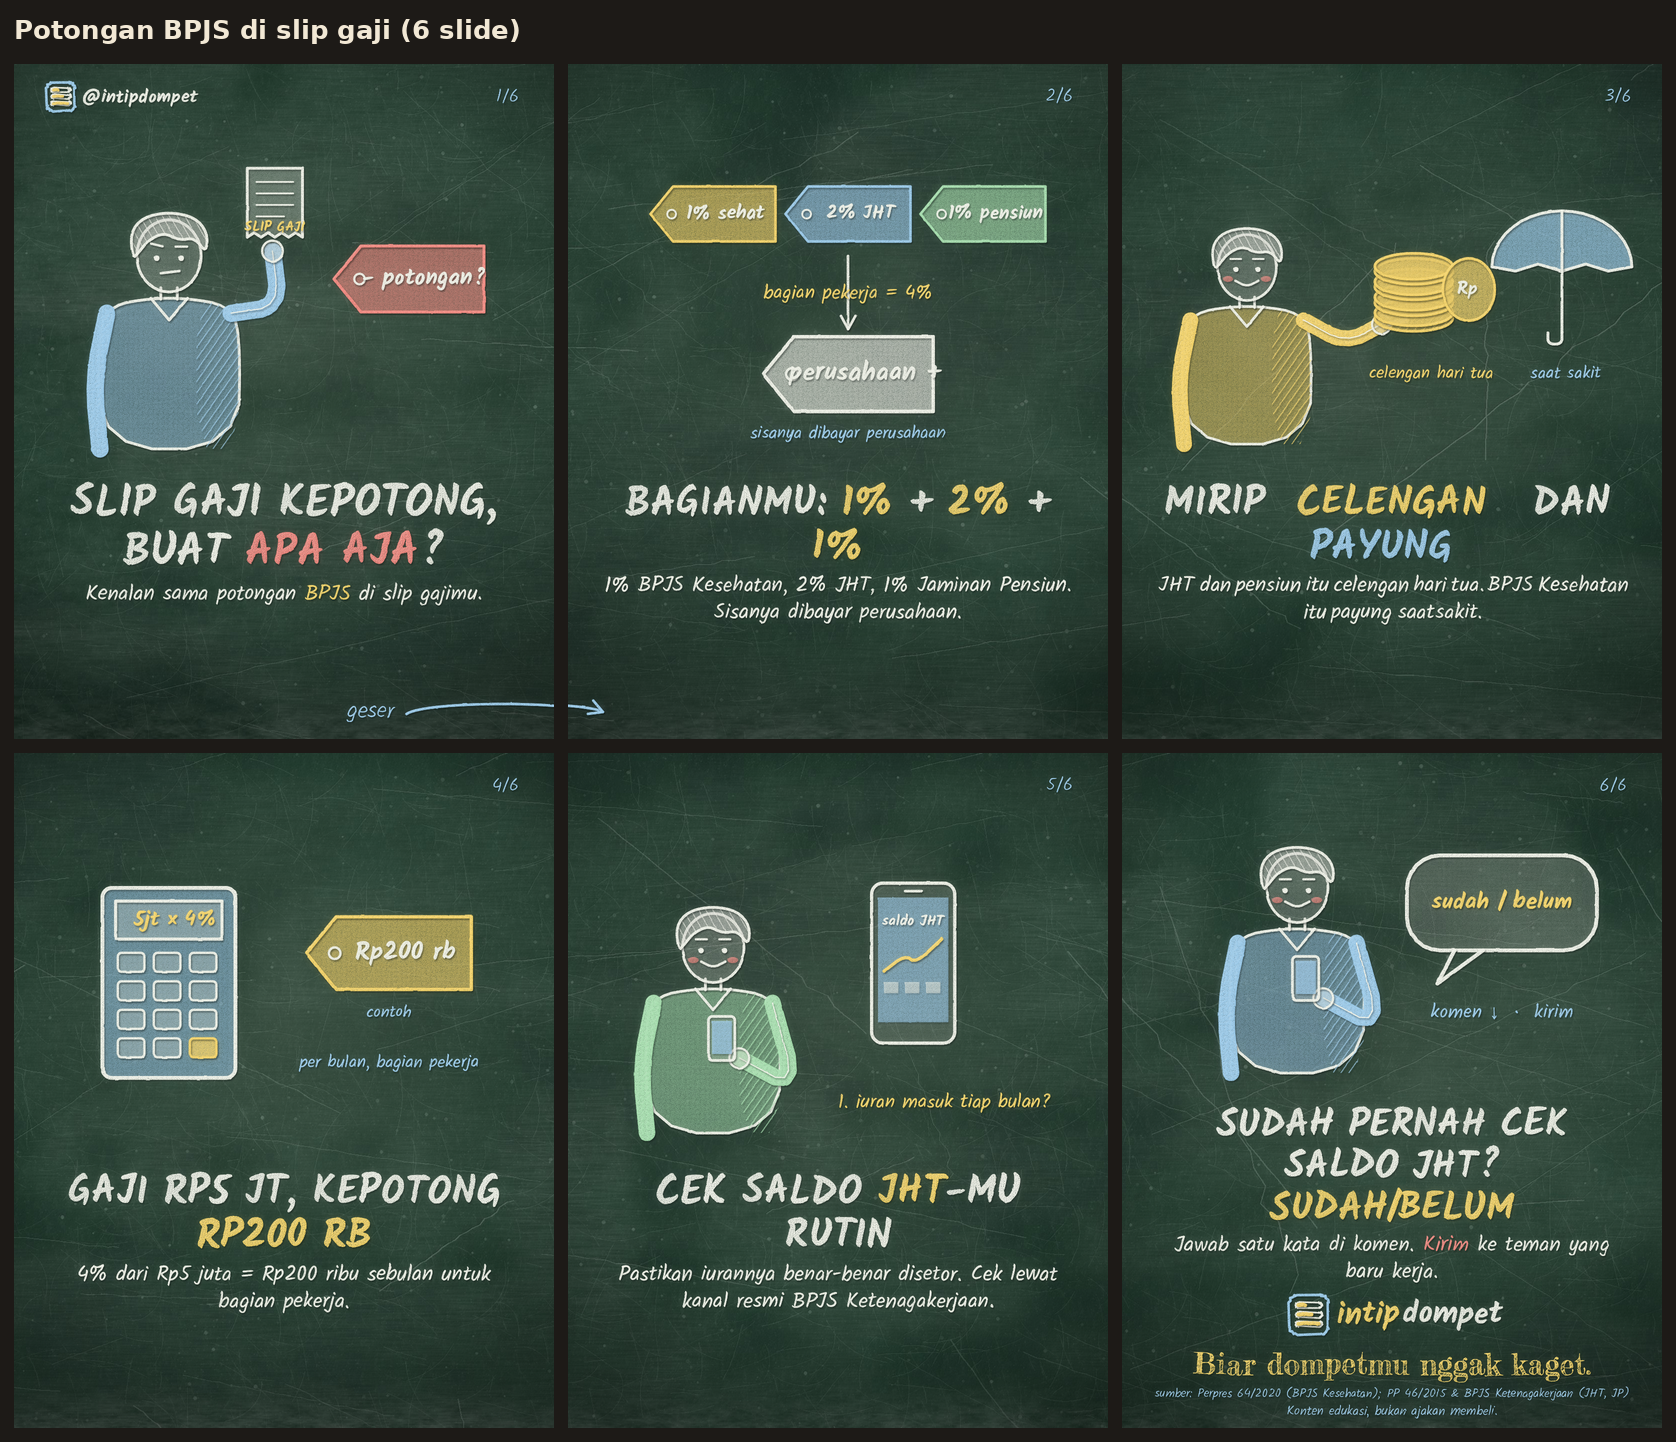
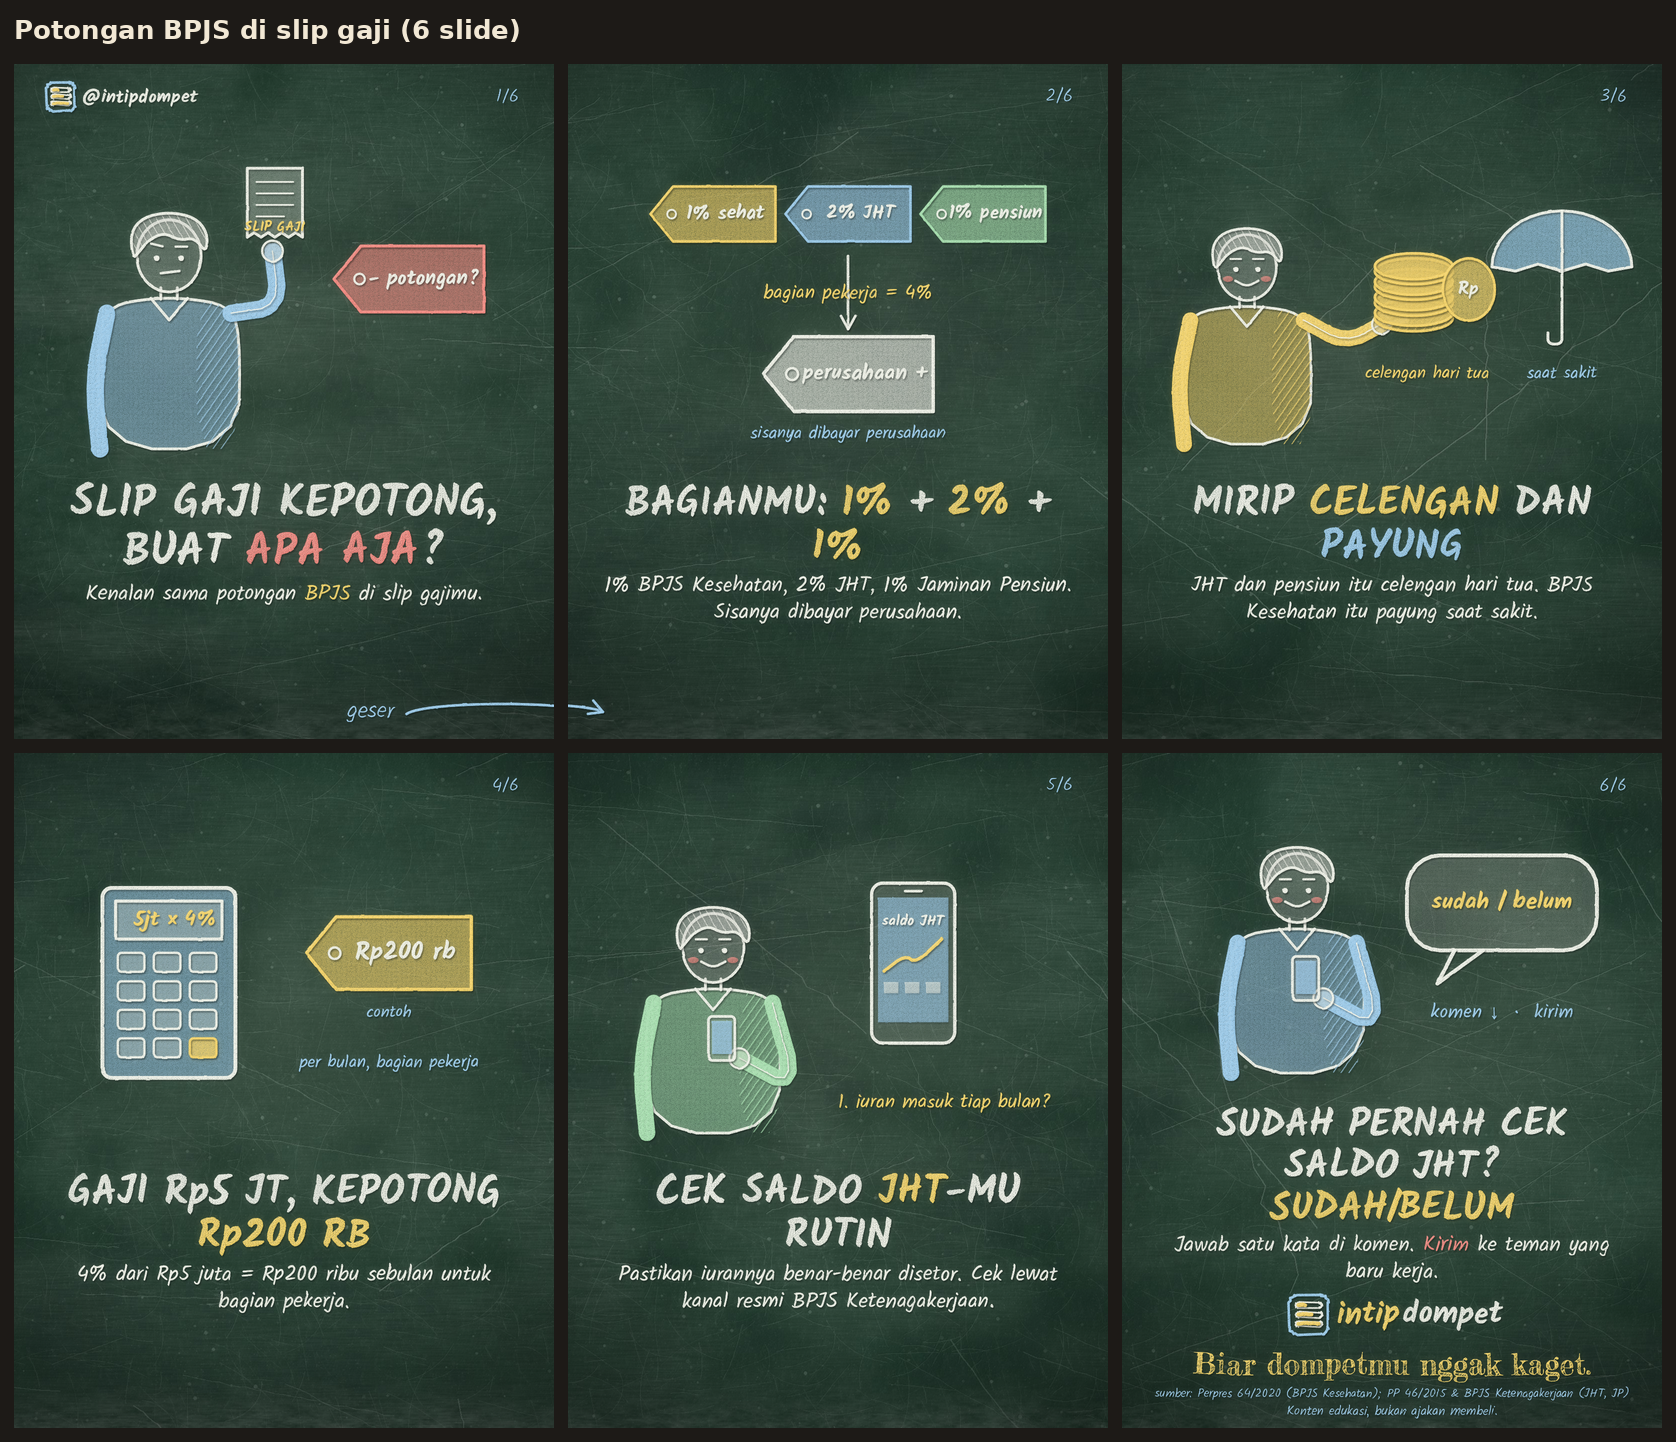
Batch carousel: 'Rp' tetap Rp di judul kapital, teks label harga mengecil agar muat, timbangan dana darurat dibalik
Claude-Session: https://claude.ai/code/session_01KMbroAGncEDBsqPKKLLpNR

diff --git a/src/papan/ilustrasi/benda.tsx b/src/papan/ilustrasi/benda.tsx
@@ -186,7 +186,7 @@ const Label: FB = ({ cx, cy, s, teks, warna = k.kuning, miring = 0 }) => {
     <>
       <Bentuk pts={putar([[-0.5, 0], [-0.32, -0.22], [0.5, -0.22], [0.5, 0.22], [-0.32, 0.22], [-0.5, 0]])} warna={warna} garis={warna} isi={0.4} tebal={t} />
       <Bentuk pts={elips(putar([[-0.33, 0]])[0][0], putar([[-0.33, 0]])[0][1], s * 0.035)} warna={k.putih} isi={0} tebal={t * 0.7} />
-      {teks ? <Tulis x={putar([[0.1, 0]])[0][0]} y={putar([[0.1, 0]])[0][1]} teks={teks} ukuran={s * 0.15} gaya="tebal" warna={k.putih} mulai={SUDAH} rata="center" miring={miring} /> : null}
+      {teks ? <Tulis x={putar([[0.1, 0]])[0][0]} y={putar([[0.1, 0]])[0][1]} teks={teks} ukuran={Math.min(s * 0.15, (s * 0.74) / (teks.length * 0.5))} gaya="tebal" warna={k.putih} mulai={SUDAH} rata="center" miring={miring} /> : null}
     </>
   );
 };

diff --git a/src/papan/Carousel.tsx b/src/papan/Carousel.tsx
@@ -68,7 +68,8 @@ const urai = (teks: string, dasar: string): Potong[] => {
 
 /** Bungkus potongan jadi baris dengan lebar terukur (font sama seperti Tulis). */
 const bungkusWarna = (teks: string, ukuran: number, gaya: Gaya, lebar: number, dasar: string, kapital: boolean): Potong[][] => {
-  const potong = urai(kapital ? teks.toUpperCase() : teks, dasar);
+  // "Rp" tetap "Rp" saat kapital: "RP5" terbaca "RPS".
+  const potong = urai(kapital ? teks.toUpperCase().replace(/RP(?=[\d.,])/g, "Rp") : teks, dasar);
   const baris: Potong[][] = [[]];
   let w = 0;
   for (const p of potong) {
